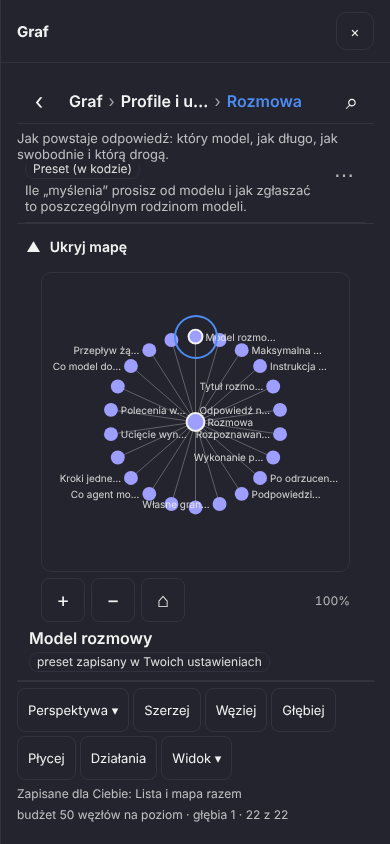
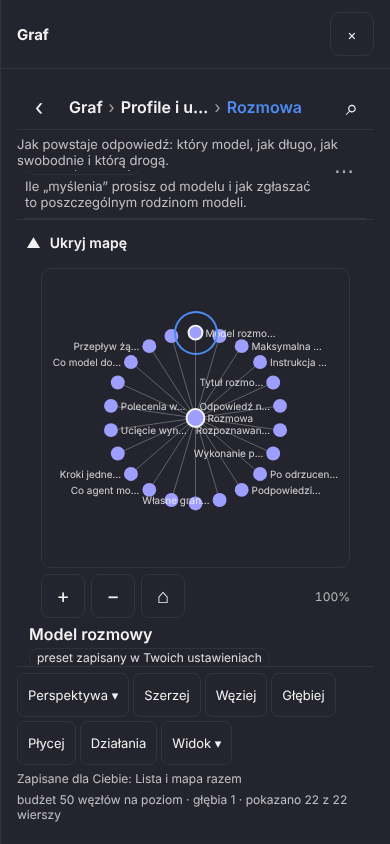
M1-W0 fix batch r1:b4: one number format on the card (chain values through the screen's word decimal_separator, pl "0,7" like the kernel's value_human; numberText in node-card-state.ts, word added to presentation.graph_screen), the navigator's bottom line says "pokazano N z M wierszy"; gate0 contrac
Claude-Session: https://claude.ai/code/session_015yMVYJqXDd8sNSZdYq3gu5

diff --git a/loom/web/src/components/node-card-state.ts b/loom/web/src/components/node-card-state.ts
@@ -39,8 +39,16 @@ export function valueText(value: unknown, t: ShellT): string {
   if (value === null) return t("card.value.none");
   if (typeof value === "boolean") return t(value ? "card.value.on" : "card.value.off");
   if (typeof value === "string") return value === "" ? t("card.value.empty") : value;
-  if (typeof value === "number") return String(value);
+  if (typeof value === "number") return numberText(value, t);
   return JSON.stringify(value);
+}
+
+/** A number the way the kernel's value_human writes it: the shortest form, the decimal point replaced by the word
+ *  `decimal_separator` of the screen (pl ","), so the chain and the "Wartość:" line agree. A missing word keeps the point. */
+export function numberText(value: number, t: ShellT): string {
+  const s = String(value);
+  const sep = t("decimal_separator");
+  return sep.length === 1 && sep !== "." ? s.replace(".", sep) : s;
 }
 
 /** The "Wartość:" line in words: the kernel's value_human first, else the value by type. null when the line would only repeat the

diff --git a/docs/reports/M1_W0_TESTIDS.md b/docs/reports/M1_W0_TESTIDS.md
@@ -12,6 +12,17 @@ w tym pliku**, o kształcie `{"gate0": [kroki]}`. Krok: `{"name", "do": [akcje],
   `{"exitQuestion": true}`.
 - Po każdym kroku sterownik woła `window.__loomBack()` aż zwróci false; `"reset": false` to wyłącza.
 - Bez bloku lub z pustą listą kroki są „pominięte” z powodem — S2 nie czeka na nas.
+- Klucz `preconditions` obok `gate0` (dodany po przeglądzie r1:b4, 2026-10-21): `{"config": {klucz: wartość}, "android_shell": true}` —
+  co sterownik ma zapewnić **przed** pierwszym krokiem. Oczekiwanie z `"android_only": true` obowiązuje tylko w powłoce Androida
+  (w przeglądarce bez `LoomBridge` ten testid ma liczność 0 i sterownik desktopowy może je pominąć).
+
+**Warunki wstępne bloku `gate0`** (sprawdzone sondą 390×844 na prawdziwym serwerze, 2026-10-21; bez nich kroki 3 i 4 padają):
+1. `ui_language = pl` w config **przed** blokiem (`PUT /api/config/ui_language {"value": "pl"}`, tak jak robią to
+   `m1-navigator-native.mjs:47` i `m1-settings-native.mjs:51`, albo `settings.set`). Preset to `auto` = język przeglądarki,
+   a WebView emulatora ma `en-US`, więc bez tego ekrany mówią po angielsku („In all: 109 fields · 0 yours”, „Background
+   analysis”). Wzorce `text` niżej są dwujęzyczne (pl|en) jako siatka bezpieczeństwa, ale Gate 0 ocenia ekrany **po polsku**.
+2. Blok jest dla powłoki Androida: `shell-menu-connection` istnieje tylko z `LoomBridge` (`layouts.json`: `when: android_shell`),
+   dlatego to oczekiwanie ma `"android_only": true`; w Chromium bez mostka ma liczność 0 (to stan oczekiwany, nie błąd).
 
 Kroki, które blok ma pokryć (testid-y i liczby z prawdziwych ekranów i danych, nie z tego opisu):
 1. Menu ⋮ → Graf → wiersz ROM: liczba wierszy ROM z danych (spec: 13), chipy pochodzenia, brak „Trybu ratunkowego”.
@@ -27,7 +38,8 @@ ekranu o tej nazwie, więc blok nie sprawdza jego braku. Krok 5 zostaje na stosi
 systemowym Wstecz na czacie, gdzie powłoka Androida ma zapytać o wyjście (M1-A0).
 
 ```json
-{"gate0": [
+{"preconditions": {"config": {"ui_language": "pl"}, "android_shell": true},
+ "gate0": [
   {"name": "Menu ⋮ → Graf → ROM: 13 pozycji po polsku, chip pochodzenia na każdej",
    "do": [{"click": "shell-menu-toggle"}, {"click": "shell-menu-graph"}, {"wait": "nav-rows"}, {"click": "nav-row-area:rom"}, {"wait": "nav-focus-why"}],
    "expect": [{"tid": "nav-crumb-1", "text": "ROM"}, {"tid": "nav-chip", "count": 13}, {"tid": "nav-status", "min": 1}, {"tid": "nav-bar-view", "count": 1}]},
@@ -35,18 +47,18 @@ systemowym Wstecz na czacie, gdzie powłoka Androida ma zapytać o wyjście (M1-
    "do": [{"click": "shell-menu-toggle"}, {"wait": "shell-menu"}],
    "expect": [{"tid": "shell-menu-graph", "count": 1}, {"tid": "shell-menu-settings", "count": 1}, {"tid": "shell-menu-me", "count": 1},
               {"tid": "shell-menu-this_conversation", "count": 1}, {"tid": "shell-menu-views", "count": 1}, {"tid": "shell-menu-semantic", "count": 1},
-              {"tid": "shell-menu-connection", "count": 1}, {"tid": "shell-menu-workshop", "count": 1},
+              {"tid": "shell-menu-connection", "count": 1, "android_only": true}, {"tid": "shell-menu-workshop", "count": 1},
               {"tid": "shell-menu-memory", "absent": true}, {"tid": "shell-menu-knowledge", "absent": true}]},
   {"name": "Ustawienia: 8 grup z „N pól · M Twoje” i suma",
    "do": [{"click": "shell-menu-toggle"}, {"click": "shell-menu-settings"}, {"wait": "shum-groups"}],
-   "expect": [{"tid": "shum-total", "text": "^Razem: \\d+ p(ól|ola) · \\d+ Twoje"},
+   "expect": [{"tid": "shum-total", "text": "^(Razem: \\d+ p(ole|ól|ola)|In all: \\d+ fields?) · \\d+ (Twoje|yours)"},
               {"tid": "shum-group-ty", "count": 1}, {"tid": "shum-group-rozmowa", "count": 1}, {"tid": "shum-group-modele", "count": 1}, {"tid": "shum-group-kontekst", "count": 1},
               {"tid": "shum-group-interfejs", "count": 1}, {"tid": "shum-group-prywatnosc", "count": 1}, {"tid": "shum-group-koszty", "count": 1}, {"tid": "shum-group-silnik", "count": 1},
-              {"tid": "shum-group-count-rozmowa", "text": "^\\d+ p(ól|ola) · \\d+ Twoje"}, {"tid": "shum-filter", "count": 1}]},
+              {"tid": "shum-group-count-rozmowa", "text": "^\\d+ (p(ole|ól|ola)|fields?) · \\d+ (Twoje|yours)"}, {"tid": "shum-filter", "count": 1}]},
   {"name": "Modele › Role: karta Analiza w tle z łańcuchem polityki i przepływami czytającymi klucz",
    "do": [{"click": "shell-menu-toggle"}, {"click": "shell-menu-settings"}, {"wait": "shum-groups"}, {"click": "shum-group-open-modele"}, {"wait": "roles-table"},
           {"click": "role-open-analysis.fast"}, {"wait": "role-card"}],
-   "expect": [{"tid": "role-card-title", "text": "Analiza w tle"}, {"tid": "role-chain", "count": 1}, {"tid": "role-chain-step-1", "count": 1},
+   "expect": [{"tid": "role-card-title", "text": "^(Analiza w tle|Background analysis)$"}, {"tid": "role-chain", "count": 1}, {"tid": "role-chain-step-1", "count": 1},
               {"tid": "role-chain-meaning-1", "text": "semantic_model"}, {"tid": "role-tier-reason", "count": 1},
               {"tid": "role-readers", "count": 1}, {"tid": "role-reader-actions.preview", "count": 1}, {"tid": "role-readers-total", "text": "\\d+"}]},
   {"name": "Wstecz: karta roli → grupa → panel → czat → pytanie o wyjście", "reset": false,
